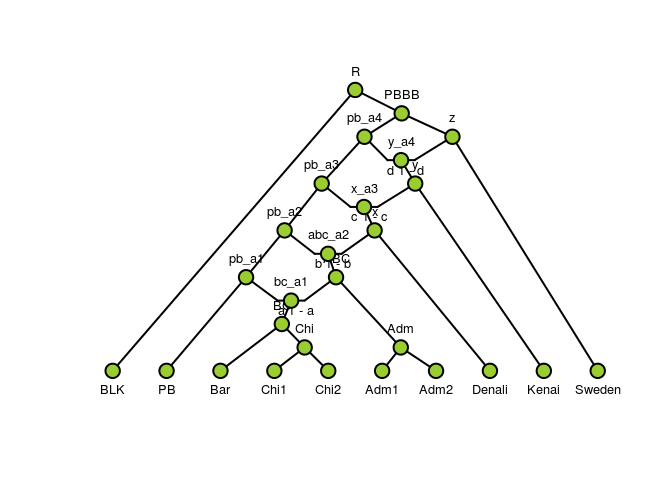
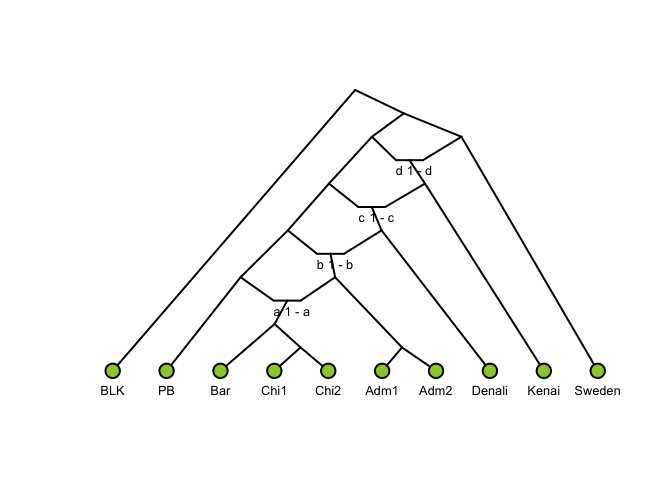
Updated documentation with MCMC examples

diff --git a/README.md b/README.md
@@ -2,11 +2,11 @@
 Admixture Graph Manipulation and Fitting
 ========================================
 
-The package provides functionality to analyse and test admixture graphs against the \(f\) statistics described in the paper [Ancient Admixture in Human History](http://tinyurl.com/o5a4kr4), Patternson *et al.*, Genetics, Vol. 192, 1065--1093, 2012.
+The package provides functionality to analyse and test admixture graphs against the *f* statistics described in the paper [Ancient Admixture in Human History](http://tinyurl.com/o5a4kr4), Patternson *et al.*, Genetics, Vol. 192, 1065--1093, 2012.
 
-The \(f\) statistics --- \(f2\), \(f3\), and \(f4\) --- extract information about correlations between gene frequencies in different populations (or single diploid genome samples), which can be informative about patterns of gene flow between these populations in form of admixture events. If a graph is constructed as a hypothesis for the relationship between the populations, equations for the expected values of the \(f\) statistics can be extracted, as functions of edge lenghs --- representing genetic drift --- and admixture proportions.
+The *f* statistics --- *f2*, *f3*, and *f4* --- extract information about correlations between gene frequencies in different populations (or single diploid genome samples), which can be informative about patterns of gene flow between these populations in form of admixture events. If a graph is constructed as a hypothesis for the relationship between the populations, equations for the expected values of the *f* statistics can be extracted, as functions of edge lenghs --- representing genetic drift --- and admixture proportions.
 
-This package provides functions for extracting these equations and for fitting them against computed \(f\) statistics. It does not currently provide functions for computing the \(f\) statistics --- for that we refer to the [ADMIXTOOLS](https://github.com/DReichLab/AdmixTools) software package.
+This package provides functions for extracting these equations and for fitting them against computed *f* statistics. It does not currently provide functions for computing the *f* statistics --- for that we refer to the [ADMIXTOOLS](https://github.com/DReichLab/AdmixTools) software package.
 
 Example
 -------
@@ -15,7 +15,7 @@ Below is a quick example of how the package can be used. The example uses data f
 
 The BLK sample is the black bear, the PB sample is a polar bear, and the rest are brown bears.
 
-I have taken the \(f\) statistics from Table 1 in the paper:
+I have taken the *f* statistics from Table 1 in the paper:
 
 ``` r
 data(bears)
@@ -41,7 +41,7 @@ bears
 #> 18 BLK PB Sweden  Kenai 0.0719     9.6
 ```
 
-The `D` column is the \(f4(W,X;Y,Z)\) statistic and the `Z` column is the \(Z\)-values obtained from a blocked jacknife (see Patterson *et al.* for details).
+The `D` column is the f4(W,X;Y,Z) statistic and the `Z` column is the *Z*-values obtained from a blocked jacknife (see Patterson *et al.* for details).
 
 From the statistics we can see that the ABC bears (Adm, Bar and Chi) are closer related to the polar bears compared to the other brown bears. The paper explains this with gene flow from polar bears into the ABC bears and going further out from there, but we can also explain this by several waves of admixture from ancestral polar bears into brown bears:
 
@@ -71,36 +71,30 @@ edges <- parent_edges(c(edge("BLK", "R"),
                         edge("Adm1", "Adm"),
                         edge("Adm2", "Adm"),
                         
-                        admixture_edge("bc_a1", "pb_a1", "ABC"),
+                        admixture_edge("bc_a1", "pb_a1", "ABC", "a"),
                         edge("Adm", "ABC"),
                         
                         edge("ABC", "abc_a2"),
-                        admixture_edge("abc_a2", "pb_a2", "x"),
+                        admixture_edge("abc_a2", "pb_a2", "x", "b"),
                         
                         edge("Denali", "x"),
                         edge("x", "x_a3"),
-                        admixture_edge("x_a3", "pb_a3", "y"),
+                        admixture_edge("x_a3", "pb_a3", "y", "c"),
                       
                         edge("Kenai", "y"),
                         edge("y", "y_a4"),                        
-                        admixture_edge("y_a4", "pb_a4", "z"),
+                        admixture_edge("y_a4", "pb_a4", "z", "d"),
                         
                         edge("Sweden", "z"),
                         
                         edge("z", "PBBB"),
                         edge("PBBB", "R")))
- 
 
-admixtures <- admixture_proportions(c(admix_props("bc_a1", "pb_a1", "ABC", "a"),
-                                      admix_props("abc_a2", "pb_a2", "x", "b"),
-                                      admix_props("x_a3", "pb_a3", "y", "c"),
-                                      admix_props("y_a4", "pb_a4", "z", "d")))
-                                
-bears_graph <- agraph(leaves, inner_nodes, edges, admixtures)
-plot(bears_graph, show_inner_node_labels = TRUE, show_admixture_labels = TRUE)
+bears_graph <- agraph(leaves, inner_nodes, edges)
+plot(bears_graph, show_admixture_labels = TRUE)
 #> fminbnd:  Exiting: Maximum number of function evaluations has been exceeded
 #>          - increase MaxFunEvals option.
-#>          Current function value: 2097.43464986477
+#>          Current function value: 3027.34762333968
 ```
 
 ![](README-graph-1.png)
@@ -108,7 +102,7 @@ plot(bears_graph, show_inner_node_labels = TRUE, show_admixture_labels = TRUE)
 Fitting a graph to data
 -----------------------
 
-The graph makes predictions on how the \(f4\) statistics should look. The graph parameters can be fit to observed statistics using the `fit_graph` function:
+The graph makes predictions on how the *f4* statistics should look. The graph parameters can be fit to observed statistics using the `fit_graph` function:
 
 ``` r
 fit <- fit_graph(bears, bears_graph)
@@ -199,7 +193,7 @@ plot(fit)
 
 ![](README-fitted_data-1.png)
 
-The plot shows the onserved \(f4\) statistics with error bars (in black) plus the predicted values from the graph.
+The plot shows the observed *f4* statistics with error bars (in black) plus the predicted values from the graph.
 
 The result of this is a `ggplot2` object that you can modify by adding `ggplot2` commands in the usual way.
 
